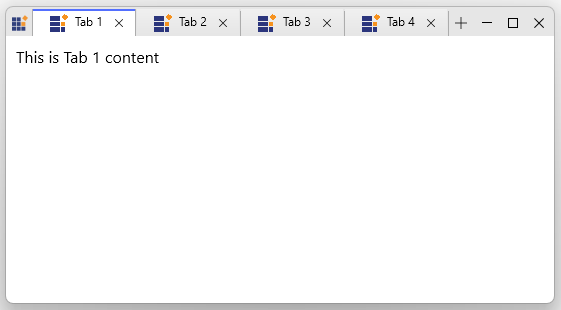
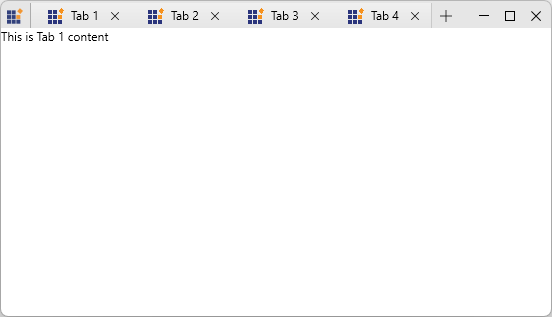
Merge pull request #2212 from syncfusion-content/tabbedwindow-mergetabs
Restructured the Merge Tabs md of Tabbed Window UG

Pull request: Restructured the Merge Tabs md of Tabbed Window UG
Description:

Restrucutred UG content of Marge Tabs for TabbedWindow control in WPF.

Changed region(s): [[0.0, 0.0, 1.0, 1.0]]

diff --git a/wpf-toc.html b/wpf-toc.html
@@ -1868,8 +1868,8 @@
         <ul>
             <li><a href="/wpf/Tabbed-Window/Overview">Overview</a></li>
             <li><a href="/wpf/Tabbed-Window/getting-started">Getting Started</a></li>
-            <li><a href="/wpf/Tabbed-Window/tab-management">Tab Management</a></li>
             <li><a href="/wpf/Tabbed-Window/data-binding">Data Binding</a></li>
+            <li><a href="/wpf/Tabbed-Window/tab-management">Tab Management</a></li>
             <li><a href="/wpf/Tabbed-Window/merge-tabs">Merge Tabs</a></li>
         </ul>
     </li>

diff --git a/wpf/Tabbed-Window/data-binding.md b/wpf/Tabbed-Window/data-binding.md
@@ -1,67 +1,93 @@
 ---
 layout: post
 title: Data Binding in WPF Tabbed Window | Syncfusion
-description: Bind tabs to a collection using the ItemsSource property to support MVVM‑based tabbed window scenarios.
+description: Learn how to bind tabs to a collection in Syncfusion® WPF Tabbed Window by using the ItemsSource property and templates for tab headers and content.
 platform: wpf
 control: TabbedWindow
 documentation: ug
 ---
 
-# WPF Tabbed Window - Data Binding
+# Data Binding in WPF Tabbed Window
 
-## Overview
+This section explains how to bind tabs to a collection in a WPF Tabbed Window using the `ItemsSource` property of the [SfTabControl](https://help.syncfusion.com/cr/wpf/Syncfusion.Windows.Controls.SfTabControl.html).
 
-The Tabbed Window provides full MVVM support through data binding. You can bind tabs to a collection using the `ItemsSource` property, enabling data-driven tab creation and dynamic content updates.
+When data binding is used, the tab header and tab content are generated from the bound data by defining appropriate header and content templates.
 
-## ItemsSource Binding
+## Populating Tab Items Using ItemsSource
 
-Bind the `ItemsSource` property to a collection in your ViewModel. Each item automatically generates a corresponding tab:
+The SfTabControl supports data binding through the `ItemsSource` property, which allows tabs to be created automatically based on a collection in the ViewModel. Each item in the collection represents a tab, and its properties can be used to define both the tab header and the tab content.
+
+The following example demonstrates how to bind tab items using the MVVM pattern.
+
+**Model and ViewModel**
 
 {% tabs %}
+
 {% highlight C# %}
 
 // TabModel.cs
-public class TabModel {
-  public string Header { get; set; }
-  public string Content { get; set; }
+public class TabModel
+{
+    public string Header { get; set; }
+    public string Content { get; set; }
 }
 
 // MainViewModel.cs
-public class MainViewModel : NotificationObject {
-  public ObservableCollection<TabModel> TabItems { get; } = new ObservableCollection<TabModel>();
+public class MainViewModel : NotificationObject
+{
+    public ObservableCollection<TabModel> TabItems { get; } = new ObservableCollection<TabModel>();
 
-  public MainViewModel() {
-    TabItems.Add(new TabModel { Header = "Tab 1", Content = "First tab content" });
-    TabItems.Add(new TabModel { Header = "Tab 2", Content = "Second tab content" });
-  }
+    public MainViewModel()
+    {
+        TabItems.Add(new TabModel
+        {
+            Header = "Tab 1",
+            Content = "First tab content"
+        });
+
+        TabItems.Add(new TabModel
+        {
+            Header = "Tab 2",
+            Content = "Second tab content"
+        });
+    }
 }
+
 {% endhighlight %}
 
+{% endtabs %}
+
+**Binding ItemsSource, Header and Content**
+
+In the following example, the SfTabControl is bound to the TabItems collection. The tab header and tab content are generated from the bound data by defining header and content templates.
+
+{% tabs %}
+
 {% highlight XAML %}
+
 <Window.DataContext>
-  <local:MainViewModel />
+    <local:MainViewModel />
 </Window.DataContext>
 
-<syncfusion:SfTabControl ItemsSource="{Binding TabItems}" x:Name="MainTabControl">
-  <!-- Header template via ItemContainerStyle -->
-  <syncfusion:SfTabControl.ItemContainerStyle>
-    <Style TargetType="syncfusion:SfTabItem">
-      <Setter Property="HeaderTemplate">
-        <Setter.Value>
-          <DataTemplate>
-            <TextBlock Text="{Binding Header}" />
-          </DataTemplate>
-        </Setter.Value>
-      </Setter>
-    </Style>
-  </syncfusion:SfTabControl.ItemContainerStyle>
+<syncfusion:SfTabControl ItemsSource="{Binding TabItems}"
+                         x:Name="MainTabControl">
+    <syncfusion:SfTabControl.ItemContainerStyle>
+        <Style TargetType="{x:Type syncfusion:SfTabItem}">
+            <Setter Property="HeaderTemplate">
+                <Setter.Value>
+                    <DataTemplate>
+                        <TextBlock Text="{Binding Header}" />
+                    </DataTemplate>
+                </Setter.Value>
+            </Setter>
+        </Style>
+    </syncfusion:SfTabControl.ItemContainerStyle>
 
-  <!-- Content template -->
-  <syncfusion:SfTabControl.ContentTemplate>
-    <DataTemplate>
-      <TextBlock Text="{Binding Content}" />
-    </DataTemplate>
-  </syncfusion:SfTabControl.ContentTemplate>
+    <syncfusion:SfTabControl.ContentTemplate>
+        <DataTemplate>
+            <TextBlock Text="{Binding Content}" />
+        </DataTemplate>
+    </syncfusion:SfTabControl.ContentTemplate>
 </syncfusion:SfTabControl>
 
 {% endhighlight %}
@@ -69,31 +95,3 @@ public class MainViewModel : NotificationObject {
 {% endtabs %}
 
 ![WPF TabbedWindow](data-binding_images/wpf_tabbedwindow.png)
-
-## Customization of TabItems
-
-Use the ItemTemplate to control the visual presentation of each tab, defining separate templates for the tab header and tab content to enable flexible and reusable UI composition.
-
-{% tabs %}
-
-{% highlight XAML %}
-
-<DataTemplate x:Key="TabHeaderTemplate">
-  <StackPanel Orientation="Horizontal" VerticalAlignment="Center">
-    <Image Source="/Images/doc.png" Width="16" Height="16"/>
-    <TextBlock Text="{Binding Title}" Margin="6,0,0,0"/>
-  </StackPanel>
-</DataTemplate>
-
-<DataTemplate x:Key="TabContentTemplate">
-  <ContentPresenter Content="{Binding Content}" />
-</DataTemplate>
-
-<syncfusion:SfTabControl ItemsSource="{Binding OpenTabs}"
-                         ItemTemplate="{StaticResource TabHeaderTemplate}"
-                         ContentTemplate="{StaticResource TabContentTemplate}" />
-{% endhighlight %}
-
-{% endtabs %}
-
-![WPF TabbedWindow customization](data-binding_images/wpf_customization.png)

diff --git a/wpf/Tabbed-Window/merge-tabs.md b/wpf/Tabbed-Window/merge-tabs.md
@@ -1,34 +1,34 @@
 ---
 layout: post
 title: Merge Tabs Between Windows in WPF Tabbed Window | Syncfusion
-description: Move tabs between multiple tabbed windows and manage merge operations with validation to ensure correct behavior.
+description: Learn how to detach tabs into floating windows and validate tab movement between tabbed windows by using tear-off support and the PreviewTabMerge event.
 platform: wpf
 control: TabbedWindow
 documentation: ug
 ---
 
-# WPF Tabbed Window - Merge Tabs Between Windows
+# Merge Tabs Between Windows in WPF Tabbed Window
 
-## Overview
+This section explains how to move tabs between WPF Tabbed Window instances. It covers supported tear‑off functionality and tab merge validation using built‑in drag‑and‑drop capabilities.
 
-The Tabbed Window supports merging tabs between multiple windows through drag-and-drop operations. This enables users to reorganize content across multiple windows and create flexible workspace configurations.
+These features allow users to detach tabs into floating windows and merge them back into the same or another tabbed window.
 
-## Tear-Off Windows
+## Tear‑Off Windows
 
-The Tabbed Window supports tear-off functionality that allows users to detach tabs and create independent floating windows. These floating windows operate as separate TabbedWindow instances and can be reattached to the main window later.
+The Tabbed Window supports tear‑off functionality, allowing tabs to be detached from an [SfTabControl](https://help.syncfusion.com/cr/wpf/Syncfusion.Windows.Controls.SfTabControl.html) and displayed in independent floating windows. These floating windows can later be merged back into another tabbed window.
 
-### Creating Floating Windows
+### Enabling Tear‑Off Support
 
-To tear off a tab and create a floating window:
+You can enable tear‑off support by setting the [AllowDragDrop](https://help.syncfusion.com/cr/wpf/Syncfusion.Windows.Controls.SfTabControl.html#Syncfusion_Windows_Controls_SfTabControl_AllowDragDrop) property of the [SfTabControl](https://help.syncfusion.com/cr/wpf/Syncfusion.Windows.Controls.SfTabControl.html) to True.
 
-1. Drag a tab outside the boundary of the tab control
-2. A new floating window is automatically created
-3. The tab is now contained in the new floating window
-4. The floating window can be a new tabbed window
+When drag‑and‑drop is enabled:
 
-### Enable Tear-Off
+- A tab can be dragged outside the tab control boundary to create a floating window
+- The dragged tab is automatically moved into the new window
+- The floating window behaves like a regular tabbed window
+- If all tabs are removed from a floating window, the window closes automatically
 
-Ensure `AllowDragDrop` is enabled, which is the prerequisite for tear-off functionality:
+The floating window supports resizing, minimizing, and all standard tab features.
 
 {% tabs %}
 
@@ -45,34 +45,21 @@ Ensure `AllowDragDrop` is enabled, which is the prerequisite for tear-off functi
     </syncfusion:SfTabControl>
 </syncfusion:SfChromeslessWindow>
 
-
 {% endhighlight %}
 
 {% endtabs %}
 
 ![WPF TabbedWindow Tear-Off](merge-tabs_images/tear-off-tabbedwindow.gif)
 
-### Reattaching Floating Tabs
+## Controlling Tab Movement with PreviewTabMerge event
 
-To reattach a tab from a floating window back to the main window:
+You can control and validate tab movement between tabbed windows using the [PreviewTabMerge](https://help.syncfusion.com/cr/wpf/Syncfusion.Windows.Controls.SfTabControl.html#Syncfusion_Windows_Controls_SfTabControl_PreviewTabMerge) event of the [SfTabControl](https://help.syncfusion.com/cr/wpf/Syncfusion.Windows.Controls.SfTabControl.html).
 
-1. Drag the tab from the floating window
-2. Drop it inside the main window's tab area
-3. The tab is automatically integrated back into the main window
-4. The floating window is closed if it becomes empty
+This event is raised before a tab is merged into the target tab control and allows you to:
 
-### Floating Window Behavior
-
-Each floating window created by tearing off a tab:
-- Is a fully functional TabbedWindow instance
-- Inherits SfChromelessWindow properties
-- Can be resized, moved, and minimized
-- Supports the same tab features as the main window (drag-drop, new tabs, close buttons)
-- Can have additional tabs dragged into it
-
-## Control Tab Movement with PreviewTabMerge
-
-The `PreviewTabMerge` event fires before a tab is moved between windows, allowing you to validate or cancel the merge operation:
+- Cancel the merge operation
+- Validate business rules before allowing a merge
+- Modify or replace the item being merged
 
 {% tabs %}
 
@@ -94,7 +81,7 @@ private void OnPreviewTabMerge(object sender, TabMergePreviewEventArgs e)
     var draggedItem = e.DraggedItem;
     var sourceControl = e.SourceControl;
     var targetControl = e.TargetControl;
-    
+
     // Validate the merge
     if (draggedItem is Document doc && doc.IsLocked)
     {
@@ -103,18 +90,18 @@ private void OnPreviewTabMerge(object sender, TabMergePreviewEventArgs e)
         MessageBox.Show("Cannot move locked documents");
         return;
     }
-    
+
     // Optional: Transform the item before merge
     if (draggedItem is Document docItem)
     {
-        e.ResultingItem = new Document 
-        { 
+        e.ResultingItem = new Document
+        {
             Title = docItem.Title,
             Content = docItem.Content,
             CreatedAt = DateTime.Now
         };
     }
-    
+
     // Allow the merge
     e.Allow = true;
 }
@@ -123,16 +110,14 @@ private void OnPreviewTabMerge(object sender, TabMergePreviewEventArgs e)
 
 {% endtabs %}
 
-![WPF TabbedWindow Merging](merge-tabs_images/tabbedwindow-merging.gif)
+![WPF TabbedWindow Preview Merging](merge-tabs_images/tabbedwindow-merging.gif)
 
 ## PreviewTabMergeEventArgs Properties
 
-| Property | Type | Description |
-|----------|------|-------------|
-| `DraggedItem` | object | The item being dragged |
-| `SourceControl` | SfTabControl | The control where drag originated |
-| `TargetControl` | SfTabControl | The control receiving the item |
-| `Allow` | bool | Set to false to cancel merge (default: true) |
-| `ResultingItem` | object | The item to be inserted (default: DraggedItem) |
-
-
+| Property        |Description                                                       |
+|-----------------|------------------------------------------------------------------|
+| DraggedItem     | Gets the item being dragged from the source tab control             |
+| SourceControl   | Gets the `SfTabControl` where the drag operation originated          |
+| TargetControl   | Gets the `SfTabControl` that receives the dragged item              |
+| Allow           | Specifies whether the merge operation is allowed                    |
+| ResultingItem   | Specifies the item inserted into the target control                 |

diff --git a/wpf/Tabbed-Window/tab-management.md b/wpf/Tabbed-Window/tab-management.md
@@ -124,35 +124,6 @@ You can customize the appearance of the new tab button using the [NewTabButtonSt
 
 ![WPF NewButton style](tab-management_images/wpf_newbuttonstyle.png)
 
-## Customizing Tab Header and Content
-
-You can customize the visual presentation of tab headers and tab content by defining data templates and applying them to the [SfTabControl](https://help.syncfusion.com/cr/wpf/Syncfusion.Windows.Controls.SfTabControl.html).
-
-{% tabs %}
-
-{% highlight XAML %}
-
-<DataTemplate x:Key="TabHeaderTemplate">
-  <StackPanel Orientation="Horizontal" VerticalAlignment="Center">
-    <Image Source="/Images/doc.png" Width="16" Height="16"/>
-    <TextBlock Text="{Binding Title}" Margin="6,0,0,0"/>
-  </StackPanel>
-</DataTemplate>
-
-<DataTemplate x:Key="TabContentTemplate">
-  <ContentPresenter Content="{Binding Content}" />
-</DataTemplate>
-
-<syncfusion:SfTabControl ItemsSource="{Binding OpenTabs}"
-                         ItemTemplate="{StaticResource TabHeaderTemplate}"
-                         ContentTemplate="{StaticResource TabContentTemplate}" />
-
-{% endhighlight %}
-
-{% endtabs %}
-
-![WPF TabbedWindow customization](tab-management_images/wpf_customization.png)
-
 ## Keyboard Shortcuts
 
 The Tabbed Window provides built‑in keyboard and mouse shortcuts for efficient tab navigation and management: